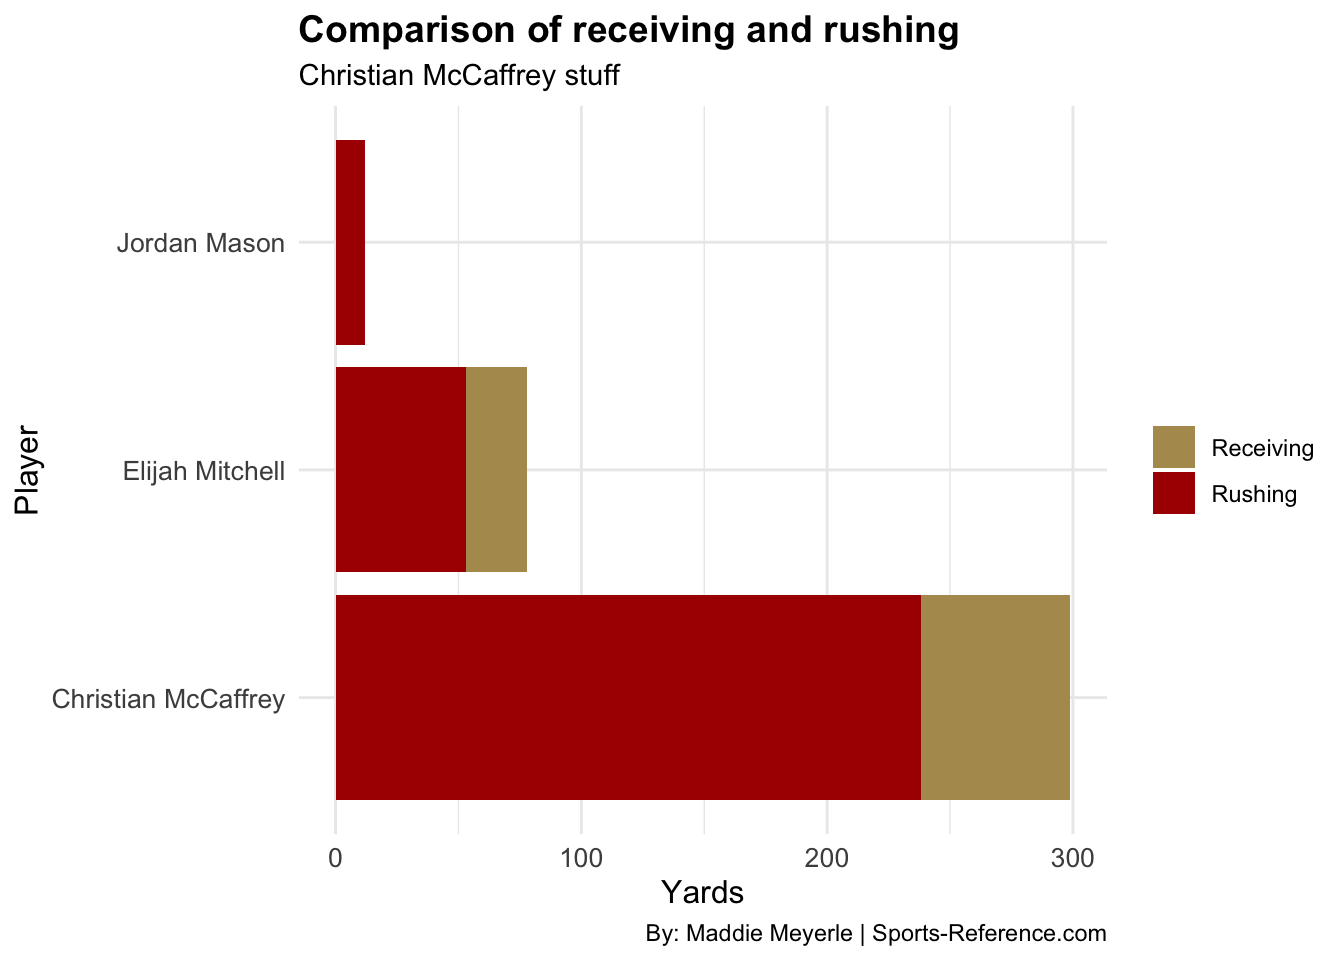
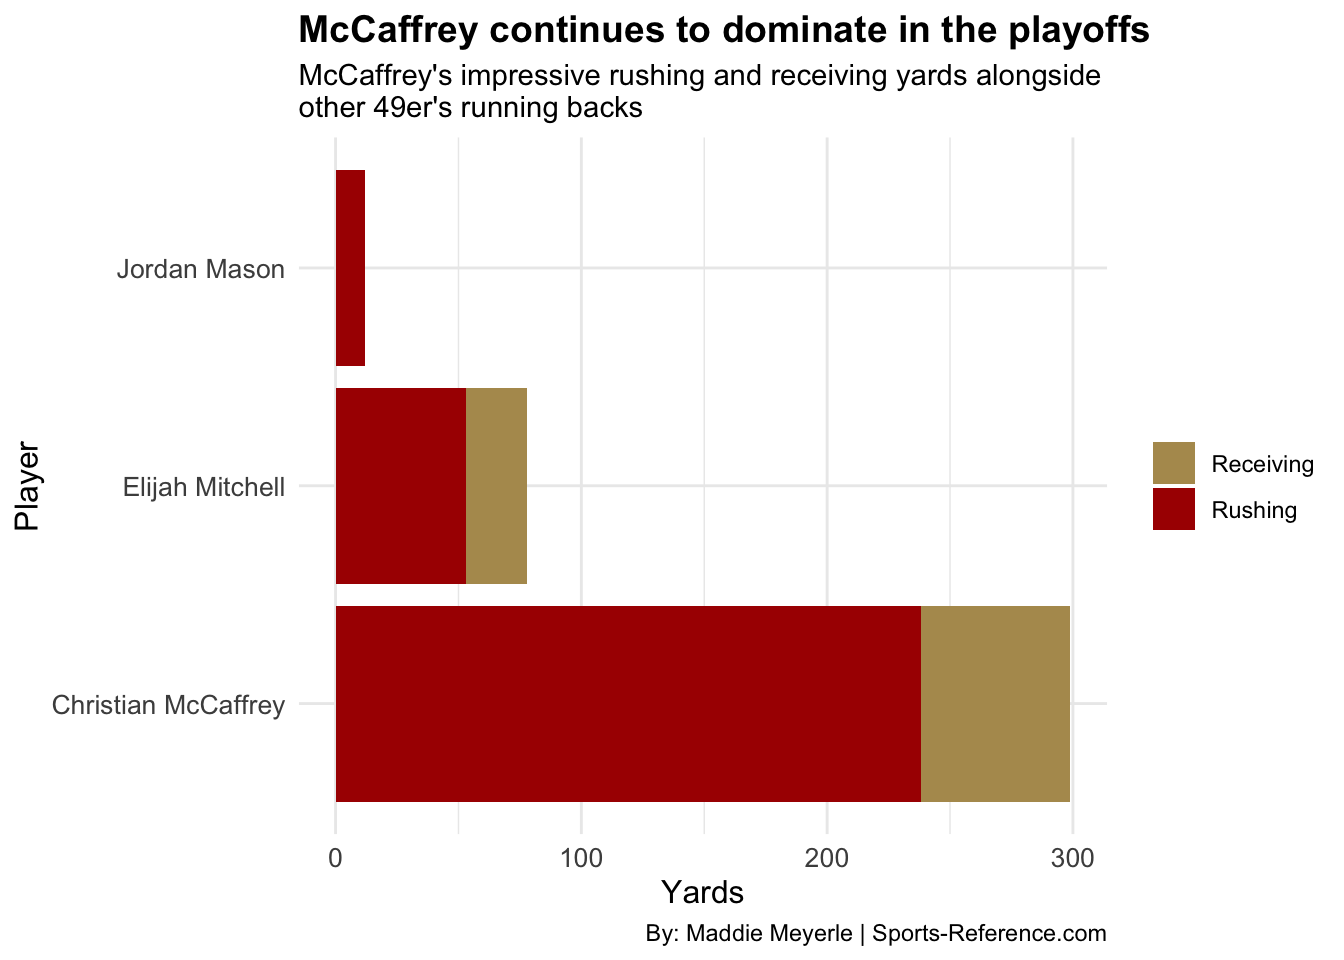
titles

diff --git a/posts/christian-mccaffrey-analysis/index.html b/posts/christian-mccaffrey-analysis/index.html
@@ -9,7 +9,7 @@
 <meta name="author" content="Maddie Meyerle">
 <meta name="dcterms.date" content="2024-12-05">
 
-<title>Christian McCaffrey – Blog</title>
+<title>How did Christian McCaffrey’s mid-season addition to the San Francisco 49ers in 2022 impact their offensive performance and team success? – Blog</title>
 <style>
 code{white-space: pre-wrap;}
 span.smallcaps{font-variant: small-caps;}
@@ -159,7 +159,7 @@ pre > code.sourceCode > span > a:first-child::before { text-decoration: underlin
 <header id="title-block-header" class="quarto-title-block default page-columns page-full">
   <div class="quarto-title-banner page-columns page-full">
     <div class="quarto-title column-body">
-      <h1 class="title">Christian McCaffrey</h1>
+      <h1 class="title">How did Christian McCaffrey’s mid-season addition to the San Francisco 49ers in 2022 impact their offensive performance and team success?</h1>
                                 <div class="quarto-categories">
                 <div class="quarto-category">mccaffrey</div>
                 <div class="quarto-category">analysis</div>
@@ -361,8 +361,8 @@ pre > code.sourceCode > span > a:first-child::before { text-decoration: underlin
 <span id="cb3-24"><a href="#cb3-24" aria-hidden="true" tabindex="-1"></a>  <span class="fu">geom_bar</span>(<span class="at">stat =</span> <span class="st">"identity"</span>) <span class="sc">+</span></span>
 <span id="cb3-25"><a href="#cb3-25" aria-hidden="true" tabindex="-1"></a>  <span class="fu">coord_flip</span>() <span class="sc">+</span></span>
 <span id="cb3-26"><a href="#cb3-26" aria-hidden="true" tabindex="-1"></a>  <span class="fu">labs</span>(</span>
-<span id="cb3-27"><a href="#cb3-27" aria-hidden="true" tabindex="-1"></a>    <span class="at">title =</span> <span class="st">"Comparison of receiving and rushing"</span>,</span>
-<span id="cb3-28"><a href="#cb3-28" aria-hidden="true" tabindex="-1"></a>    <span class="at">subtitle =</span> <span class="st">"Christian McCaffrey stuff"</span>,</span>
+<span id="cb3-27"><a href="#cb3-27" aria-hidden="true" tabindex="-1"></a>    <span class="at">title =</span> <span class="st">"McCaffrey's dominance among the 49er's running</span><span class="sc">\n</span><span class="st">backs during the regular season"</span>,</span>
+<span id="cb3-28"><a href="#cb3-28" aria-hidden="true" tabindex="-1"></a>    <span class="at">subtitle =</span> <span class="st">"Exploring how McCaffrey's rushing and receiving yards set him apart</span><span class="sc">\n</span><span class="st">from his fellow teammates in 2022"</span>,</span>
 <span id="cb3-29"><a href="#cb3-29" aria-hidden="true" tabindex="-1"></a>    <span class="at">caption =</span> <span class="st">"Source: By: Maddie Meyerle | Sports-Reference.com"</span>,</span>
 <span id="cb3-30"><a href="#cb3-30" aria-hidden="true" tabindex="-1"></a>    <span class="at">x =</span> <span class="st">"Player"</span>,</span>
 <span id="cb3-31"><a href="#cb3-31" aria-hidden="true" tabindex="-1"></a>    <span class="at">y =</span> <span class="st">"Yards"</span>,</span>
@@ -413,8 +413,8 @@ pre > code.sourceCode > span > a:first-child::before { text-decoration: underlin
 <span id="cb4-22"><a href="#cb4-22" aria-hidden="true" tabindex="-1"></a>  <span class="fu">geom_bar</span>(<span class="at">stat =</span> <span class="st">"identity"</span>) <span class="sc">+</span></span>
 <span id="cb4-23"><a href="#cb4-23" aria-hidden="true" tabindex="-1"></a>  <span class="fu">coord_flip</span>() <span class="sc">+</span></span>
 <span id="cb4-24"><a href="#cb4-24" aria-hidden="true" tabindex="-1"></a>  <span class="fu">labs</span>(</span>
-<span id="cb4-25"><a href="#cb4-25" aria-hidden="true" tabindex="-1"></a>    <span class="at">title =</span> <span class="st">"Comparison of receiving and rushing"</span>,</span>
-<span id="cb4-26"><a href="#cb4-26" aria-hidden="true" tabindex="-1"></a>    <span class="at">subtitle =</span> <span class="st">"Christian McCaffrey stuff"</span>,</span>
+<span id="cb4-25"><a href="#cb4-25" aria-hidden="true" tabindex="-1"></a>    <span class="at">title =</span> <span class="st">"McCaffrey continues to dominate in the playoffs"</span>,</span>
+<span id="cb4-26"><a href="#cb4-26" aria-hidden="true" tabindex="-1"></a>    <span class="at">subtitle =</span> <span class="st">"McCaffrey's impressive rushing and receiving yards alongside</span><span class="sc">\n</span><span class="st">other 49er's running backs"</span>,</span>
 <span id="cb4-27"><a href="#cb4-27" aria-hidden="true" tabindex="-1"></a>    <span class="at">caption =</span> <span class="st">"By: Maddie Meyerle | Sports-Reference.com"</span>,</span>
 <span id="cb4-28"><a href="#cb4-28" aria-hidden="true" tabindex="-1"></a>    <span class="at">x =</span> <span class="st">"Player"</span>,</span>
 <span id="cb4-29"><a href="#cb4-29" aria-hidden="true" tabindex="-1"></a>    <span class="at">y =</span> <span class="st">"Yards"</span>,</span>

diff --git a/index.html b/index.html
@@ -215,15 +215,15 @@ window.Quarto = {
 
 <div class="quarto-listing quarto-listing-container-default" id="listing-listing">
 <div class="list quarto-listing-default">
-<div class="quarto-post image-right" data-index="0" data-categories="bWNjYWZmcmV5LGFuYWx5c2lzLG5mbA==" data-listing-date-sort="1733378400000" data-listing-file-modified-sort="1733762746517" data-listing-date-modified-sort="NaN" data-listing-reading-time-sort="6" data-listing-word-count-sort="1134">
+<div class="quarto-post image-right" data-index="0" data-categories="bWNjYWZmcmV5LGFuYWx5c2lzLG5mbA==" data-listing-date-sort="1733378400000" data-listing-file-modified-sort="1733764444040" data-listing-date-modified-sort="NaN" data-listing-reading-time-sort="6" data-listing-word-count-sort="1160">
 <div class="thumbnail">
 <p><a href="./posts/christian-mccaffrey-analysis/index.html" class="no-external"></a></p><a href="./posts/christian-mccaffrey-analysis/index.html" class="no-external">
-<p><img loading="lazy" src="./posts/christian-mccaffrey-analysis/image.png" class="thumbnail-image"></p>
+<p><img loading="lazy" src="./posts/christian-mccaffrey-analysis/image2.png" class="thumbnail-image"></p>
 </a><p><a href="./posts/christian-mccaffrey-analysis/index.html" class="no-external"></a></p>
 </div>
 <div class="body">
 <h3 class="no-anchor listing-title">
-<a href="./posts/christian-mccaffrey-analysis/index.html" class="no-external">Christian McCaffrey</a>
+<a href="./posts/christian-mccaffrey-analysis/index.html" class="no-external">How did Christian McCaffrey’s mid-season addition to the San Francisco 49ers in 2022 impact their offensive performance and team success?</a>
 </h3>
 <div class="listing-subtitle">
 <a href="./posts/christian-mccaffrey-analysis/index.html" class="no-external"></a>
